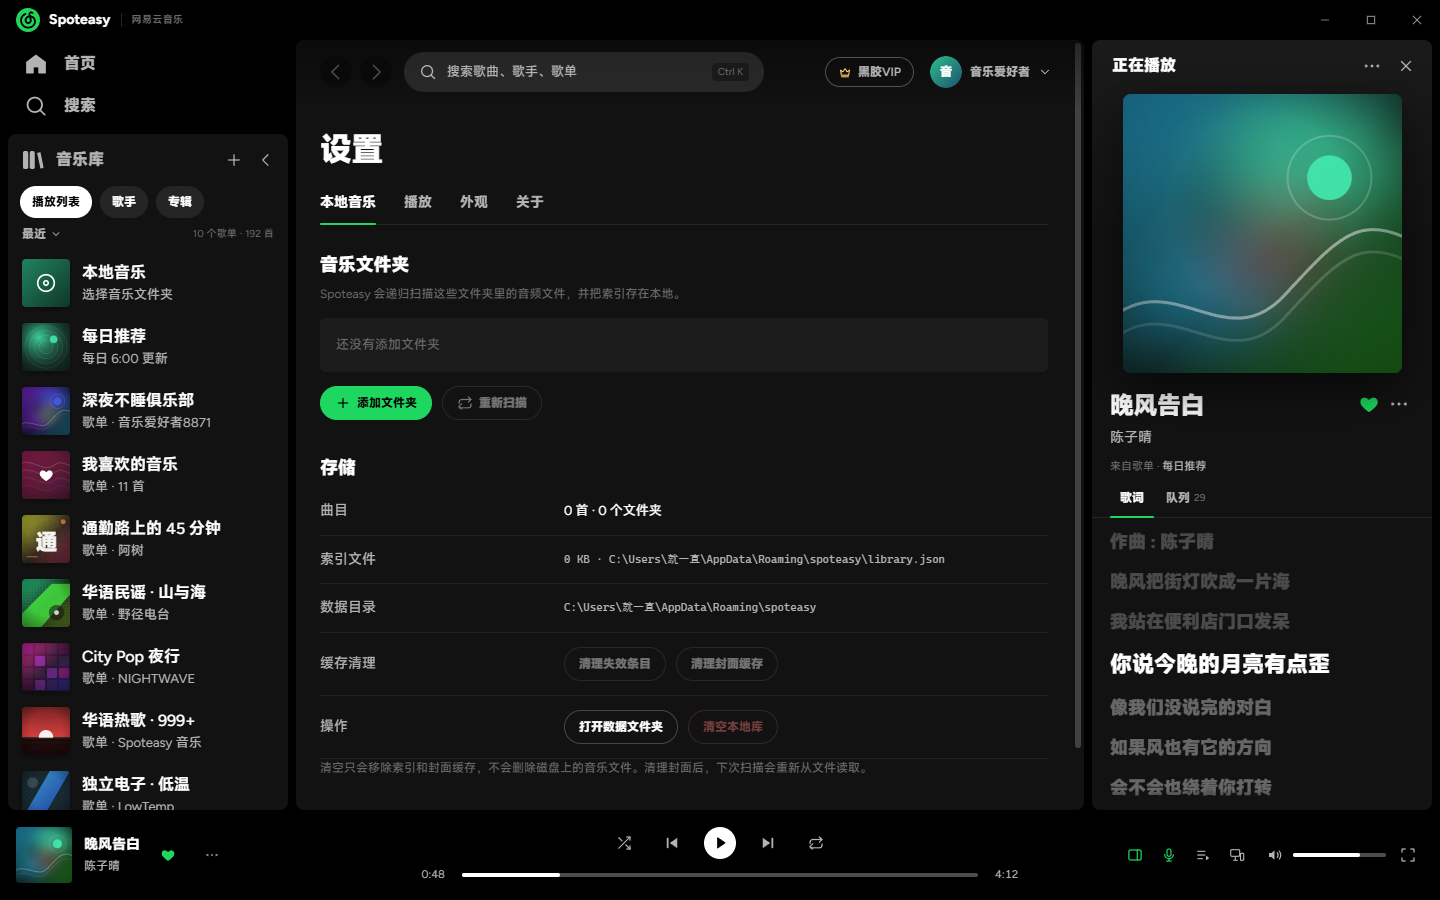
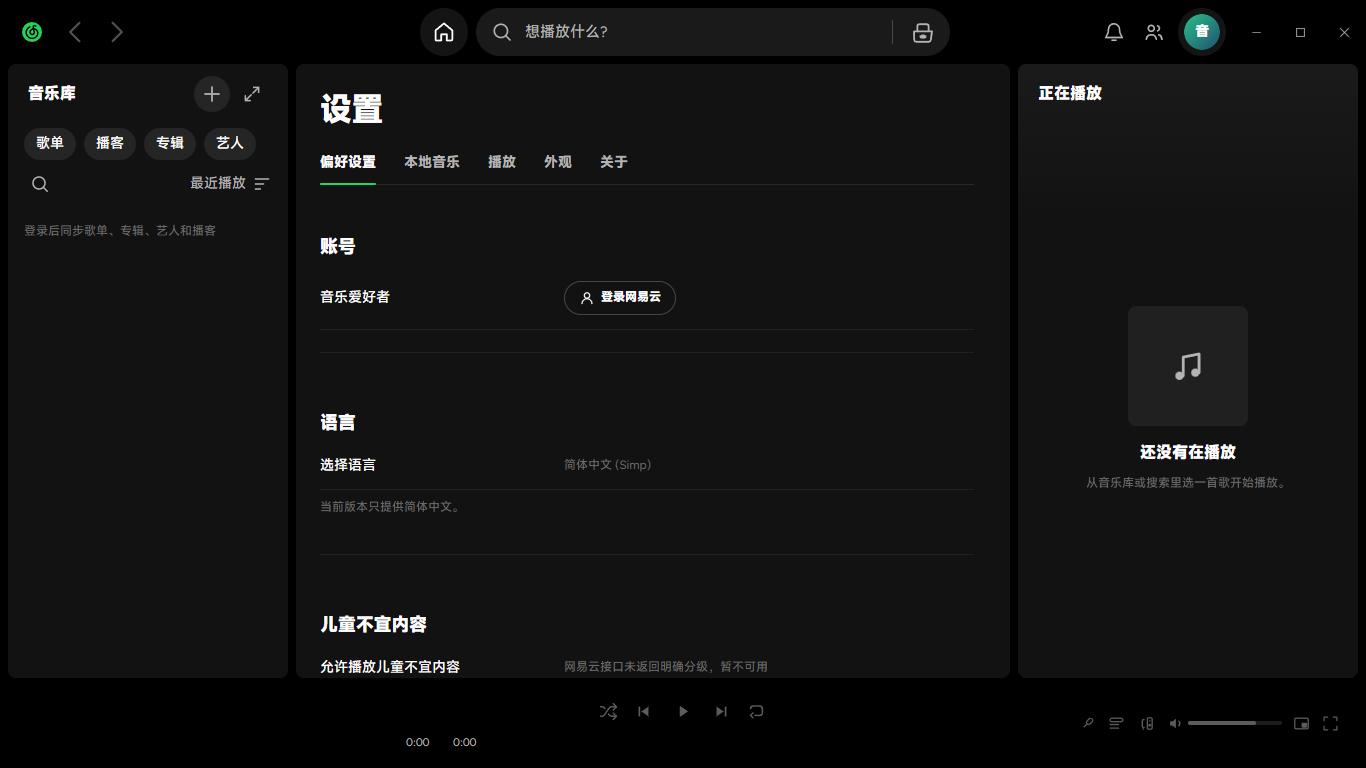
README: add real screenshots, intro, update and setup docs

diff --git a/src/components/Topbar.tsx b/src/components/Topbar.tsx
@@ -23,6 +23,8 @@ export function Topbar({ route, canBack, canForward, onBack, onForward, onCollap
   const [menuOpen, setMenuOpen] = useState(false);
   const [appMenuOpen, setAppMenuOpen] = useState(false);
   const [maximized, setMaximized] = useState(false);
+  const [update, setUpdate] = useState<{ version: string; assetUrl: string } | null>(null);
+  const [updating, setUpdating] = useState(false);
   const menuRef = useRef<HTMLDivElement>(null);
   const appMenuRef = useRef<HTMLDivElement>(null);
   const displayName = netease.loggedIn ? netease.nickname : '音乐爱好者';
@@ -47,6 +49,49 @@ export function Topbar({ route, canBack, canForward, onBack, onForward, onCollap
     win.isMaximized().then(setMaximized);
     return win.onMaximized(setMaximized);
   }, [win]);
+
+  useEffect(() => {
+    let alive = true;
+    const api = window.spoteasy?.app;
+    if (!api?.latestRelease) return;
+    const isNewer = (latest: string, current: string) => {
+      const a = latest.split('.').map((part) => Number(part) || 0);
+      const b = current.split('.').map((part) => Number(part) || 0);
+      for (let index = 0; index < Math.max(a.length, b.length); index += 1) {
+        if ((a[index] || 0) > (b[index] || 0)) return true;
+        if ((a[index] || 0) < (b[index] || 0)) return false;
+      }
+      return false;
+    };
+    const check = () => {
+      Promise.all([api.info(), api.latestRelease()])
+        .then(([info, release]) => {
+          if (!alive || !release?.version || !release.assetUrl) return;
+          if (isNewer(release.version, info.version)) {
+            setUpdate({ version: release.version, assetUrl: release.assetUrl });
+          }
+        })
+        .catch(() => undefined);
+    };
+    check();
+    const timer = window.setInterval(check, 30 * 60_000);
+    window.addEventListener('focus', check);
+    return () => {
+      alive = false;
+      window.clearInterval(timer);
+      window.removeEventListener('focus', check);
+    };
+  }, []);
+
+  const installUpdate = async () => {
+    if (!update || updating) return;
+    setUpdating(true);
+    const result = await window.spoteasy?.app.installUpdate(update.assetUrl);
+    if (!result?.ok) {
+      setUpdating(false);
+      toast(result?.error || '更新失败');
+    }
+  };
 
   return (
     <header className="topbar" onDoubleClick={() => win?.toggleMaximize()}>
@@ -138,6 +183,17 @@ export function Topbar({ route, canBack, canForward, onBack, onForward, onCollap
       </div>
 
       <div className="topbar-center">
+        {update && (
+          <button
+            type="button"
+            className="update-pill"
+            disabled={updating}
+            onClick={() => void installUpdate()}
+            title={`更新到 ${update.version}`}
+          >
+            {updating ? '更新中…' : '更新'}
+          </button>
+        )}
         <button
           type="button"
           className={`home-btn ${homeActive ? 'is-active' : ''}`}

diff --git a/src/components/SettingsView.tsx b/src/components/SettingsView.tsx
@@ -61,7 +61,7 @@ export function SettingsView() {
   });
   const [compactLibrary, setCompactLibrary] = useState(() => localStorage.getItem('spoteasy.compactLibrary') === '1');
   const [reduceMotion, setReduceMotion] = useState(() => localStorage.getItem('spoteasy.reduceMotion') === '1');
-  const [updateState, setUpdateState] = useState<{ checking?: boolean; version?: string; url?: string; error?: string }>({});
+  const [updateState, setUpdateState] = useState<{ checking?: boolean; version?: string; url?: string; assetUrl?: string; error?: string }>({});
   const [info, setInfo] = useState<AppInfo | null>(null);
   const [stats, setStats] = useState<LibraryStats | null>(null);
   const [busy, setBusy] = useState(false);
@@ -146,7 +146,7 @@ export function SettingsView() {
       setUpdateState({ error: result?.error || '检查失败' });
       return;
     }
-    setUpdateState({ version: result.version, url: result.url });
+    setUpdateState({ version: result.version, url: result.url, assetUrl: result.assetUrl });
     if (result.version === info?.version) ui.toast('已经是最新版本');
   };
 
@@ -380,7 +380,7 @@ export function SettingsView() {
                     type="button"
                     className="settings-btn primary"
                     onClick={async () => {
-                      const result = await window.spoteasy?.app.installUpdate(updateState.url || '');
+                      const result = await window.spoteasy?.app.installUpdate(updateState.assetUrl || '');
                       if (!result?.ok) ui.toast(result?.error || '下载更新失败');
                     }}
                   >

diff --git a/src/styles/global.css b/src/styles/global.css
@@ -9318,3 +9318,34 @@ html[data-reduce-motion='1'] *::after {
   border: 0;
   cursor: pointer;
 }
+
+/* 顶部更新胶囊：只有发现新版本时出现，点击才更新 */
+.update-pill {
+  display: inline-flex;
+  align-items: center;
+  justify-content: center;
+  height: 30px;
+  padding: 0 13px;
+  margin-right: 8px;
+  border: 0;
+  border-radius: 999px;
+  color: #06120a;
+  background: #1ed760;
+  font-size: 12px;
+  font-weight: 800;
+  cursor: pointer;
+  transition: filter 0.15s, transform 0.15s;
+}
+
+.update-pill:hover {
+  filter: brightness(1.08);
+}
+
+.update-pill:active {
+  transform: scale(0.97);
+}
+
+.update-pill:disabled {
+  cursor: wait;
+  opacity: 0.72;
+}

diff --git a/src/types.d.ts b/src/types.d.ts
@@ -268,6 +268,7 @@ declare global {
         latestRelease(): Promise<{
           version?: string;
           url?: string;
+          assetUrl?: string;
           publishedAt?: string;
           notes?: string;
           error?: string;

diff --git a/README.md b/README.md
@@ -1,10 +1,91 @@
 # Spoteasy
 
-用 **Spotify 桌面端的细节**做的纯音乐播放器：界面是 Spotify 的三栏骨架，内容只保留音乐——本地音乐库、歌单、歌词、队列、播放。
+用 **Spotify 桌面端的细节** 做的纯音乐播放器：三栏布局、播放条、全屏播放、歌词、搜索、音乐库和设置页都按 Spotify 的交互重新实现，内容层接网易云音乐，本地音乐也能直接扫库播放。
 
-当前为 **0.1.32**：本地库保留为工具入口；首页/搜索/推荐/歌单/播客等内容来自网易云，生产 UI 已移除示例歌单。本地文件夹和网易云歌曲都走真实播放。
+![Spoteasy 首页](docs/screenshots/readme-home.png)
 
-> 网易云接入按“个人使用、用户自己登录、使用账号已有权限”实现。用的是非官方接口，不保证长期稳定；不能绕过 VIP/付费/DRM，不下载或二次分发音频。对外发布前需要授权与法务确认。
+**当前版本：0.1.32** · Windows 10/11 · Electron 45 + React 19 + TypeScript + Vite
+
+[下载安装包](https://github.com/Wusshilan/spoteasy/releases/tag/v0.1.32) · [源码仓库](https://github.com/Wusshilan/spoteasy) · [问题反馈](https://github.com/Wusshilan/spoteasy/issues)
+
+> 网易云接入按“个人使用、用户自己登录、使用账号已有权限”实现。使用的是非官方接口，不保证长期稳定；不能绕过 VIP / 付费 / DRM，不下载或二次分发音频。对外发布前需要授权与法务确认。
+
+## 实机截图
+
+| 首页 | 搜索 |
+| --- | --- |
+| ![首页](docs/screenshots/readme-home.png) | ![搜索](docs/screenshots/readme-search.png) |
+
+| 音乐库 | 设置 |
+| --- | --- |
+| ![音乐库](docs/screenshots/readme-library.png) | ![设置](docs/screenshots/readme-settings.png) |
+
+![全屏播放](docs/screenshots/readme-player.png)
+
+## 功能
+
+- **Spotify 三栏结构**：侧栏音乐库、中间页面、右侧正在播放；顶栏搜索与窗口控制
+- **播放**：队列、随机、循环、上一首/下一首、进度、音量、播放条和迷你播放器
+- **全屏播放**：封面主色背景、点击封面切换歌词、歌词点击 seek、5 秒无操作沉浸模式
+- **沉浸模式**：圆角卡片、全窗口黑场、上下展开/收回动画；点击封面以外退出
+- **搜索**：网易云歌曲、播客、专辑、歌单、艺人、MV，以及本地歌曲/专辑/艺人；关键词高亮
+- **音乐库**：本地文件夹扫描、歌单、播客、专辑、艺人；四种视图（仅标题和作者 / 列表 / 宽松 / 紧凑）并持久化
+- **播客**：关注列表、播客详情、节目列表、单集播放
+- **首页**：推荐、排行榜、每日推荐、你的节目/新单集；按歌单随机取色，日推封面读取
+- **设置**：偏好设置、音质、音量、随机/循环、睡眠定时、缩放、紧凑音乐库、减少动态效果、缓存清理
+- **更新**：识别到新 Release 时在主页图标前显示绿色「更新」胶囊，点击后才下载安装，不点击不更新
+- **本地优先**：本地音频走 HTMLAudio；网易云音频走稳定的 `spoteasy-cloud://` 协议，启动后重新解析播放地址
+
+## 安装
+
+推荐下载 **Setup** 安装版：
+
+- [Spoteasy-Setup-0.1.32.exe](https://github.com/Wusshilan/spoteasy/releases/download/v0.1.32/Spoteasy-Setup-0.1.32.exe)
+- [Spoteasy-0.1.32-portable.exe](https://github.com/Wusshilan/spoteasy/releases/download/v0.1.32/Spoteasy-0.1.32-portable.exe)
+
+安装版支持应用内更新；portable 版本不能可靠地自我覆盖更新。
+
+## 自动更新
+
+- 启动、窗口重新聚焦、每 30 分钟检查 GitHub 最新 Release
+- 仅当最新版本大于当前版本时，在主页图标前显示绿色「更新」胶囊
+- 用户点击胶囊后才会下载 `Spoteasy-Setup-*.exe` 并启动安装
+- 不点击不会下载、不会安装
+- 当前版本与最新 Release 同为 0.1.32 时不会显示胶囊
+- 升级实测需要先发布 **0.1.33**；安装包尚未签名，Windows 可能提示未知发布者
+
+## 开发
+
+要求 Node.js 20+、pnpm。
+
+```bash
+pnpm install
+pnpm run dev
+pnpm run build
+pnpm run pack:win
+```
+
+Windows 打包产物在 `release/`。
+
+## 技术结构
+
+- `electron/main.cjs`：窗口、IPC、网易云 API、封面取色、更新检查/下载、媒体代理
+- `electron/preload.cjs`：`window.spoteasy` 安全桥
+- `src/state/`：播放器、网易云、本地库、UI 状态
+- `src/components/`：首页、搜索、音乐库、播客、播放条、全屏播放、设置
+- `src/styles/global.css`：Spotify 风格布局和动效
+
+## 已知限制
+
+- 网易云是非官方接口，接口变动可能导致搜索、歌单或播放失败
+- 不绕过 VIP / 付费 / DRM；没有版权的歌曲会失败
+- 真实账号写操作（收藏、关注、加入歌单、取消关注）仍需测试账号验证
+- 搜索还缺用户、节目单集、筛选和排序
+- 部分 Spotify 设置（Canvas、社交动态、淡入淡出、无缝、自动混音、音量标准化、单声道、均衡器）尚未接入，界面中标记为「未接入」
+- 安装包未签名；自动更新只覆盖 NSIS 安装版
+- 云同步没有后端，当前不做账号云同步
+
+## 更新日志
 
 ## 0.1.32 沉浸退出反向动画
 
